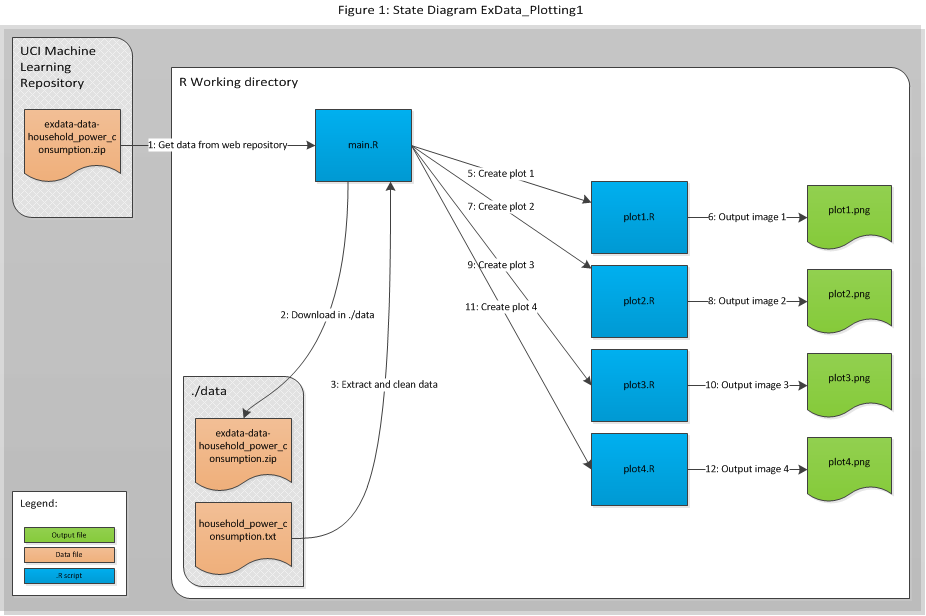
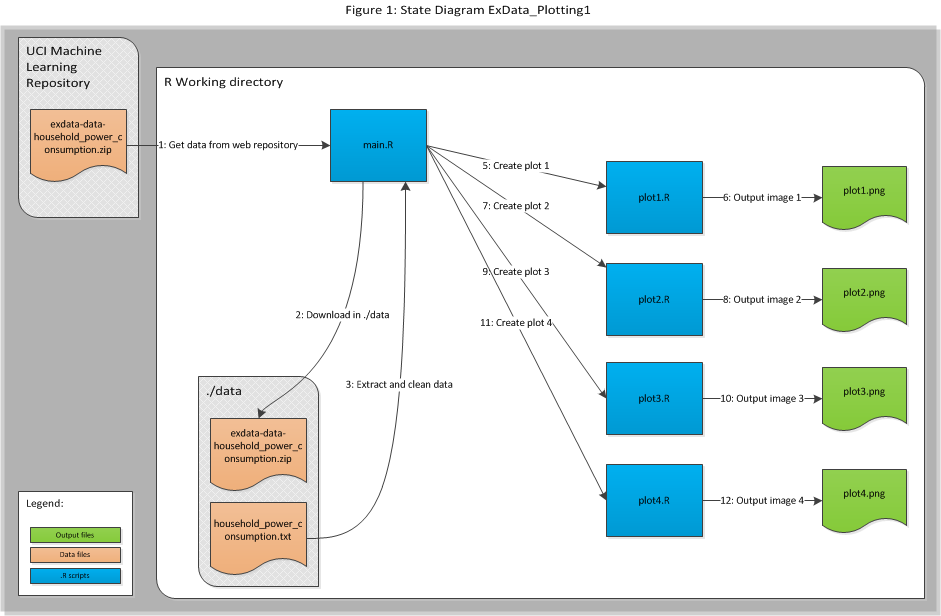
removed working directory change and added some documentation

diff --git a/CodeBook.md b/CodeBook.md
@@ -11,9 +11,10 @@
 ### Contents
    1 - Assumptions  
    2 - Base Criteria  
-   3 - Data Dictionary  
+   3 - Code Documentation  
    4 - Variable Dictionary  
-   5 - Code Documentation      
+   5 - General Statistics
+    
 
 ### Assumptions
 ##### Section outlines the base assumptions made when generating the output plots 
@@ -29,159 +30,55 @@
 >Note: Running <code>main.R</code> will download roughly 146MB of data form the web and create a new directory './data', which will house all the downloaded data in the working directory. Furthermore, the plots (in .png format) will be placed in the working directory upon the completion of the <code>main.R</code> routine. Lastly, the R package "lubridate" will be installed automatically upon running this routine.
 
 
-### State Diagram
+### Code Documentation
+##### Section explains the overall extraction, cleaning and plot creating process 
+
+>Note: The R file <code>main.R</code> and <code>plot*.R</code>, has inline documentation as required. The purpose of this section is to provide high-level guidance. For detailed information, refer to the source code. 
+</br>
+
+The steps taken to produce the 4 plots are illustrated below: 
 
 ![stateDiagram](images/stateDiagram.png) 
 
 
-### Data Dictionary
-##### Section explains the columns in the tidy data set (UCI-HAR-TidyDataSet.csv)
-
-> Note: the two output files have identical data, where the first row are column headers.
-</br>  
-
-Output file format: .csv  and .txt  
-Delimiter: ","  
-Total number of columns: 68  
-Total number of rows: 180  
-
->Note: format followed for Table 1 is outlined here:  
- $X; indicates a column name, where X will match the name of the column in the tidy data set    
- \: YYY; YYY indicates the data format and any supporting explanations  
- ZZZ,ZZZ,ZZZ, ...; ZZZ show the first 6 of 180 observations  
- //X - ; is any further explanation of the column in the line below
-</br>
-
-##### Table 1: Tidy Data Set Data Dictionary
-//activity_label - is associated with the the activity involved. Ranges from 1 to 30  
- $ activity_label             : Factor w/ 6 levels "LAYING","SITTING",..: 1 2 3 4 5 6 1 2 3 4 ...  
-
-//test_subject - A reference number associated with the 30 test subjects. Ranges from 1 to 30  
- $ test_subject               : int  1 1 1 1 1 1 2 2 2 2 ...  
-
-// An explanation of the following 66 columns is available in ./data/UCI HAR Dataset/features_info.txt.   
-// Also note all these 66 columns are averages.  
-// For further explanation and more context, please refer to  ./data/UCI HAR Dataset/README.txt.  
- $ tBodyAcc-mean()-X          : num  0.222 0.261 0.279 0.277 0.289 ...  
- $ tBodyAcc-mean()-Y          : num  -0.04051 -0.00131 -0.01614 -0.01738 -0.00992 ...  
- $ tBodyAcc-mean()-Z          : num  -0.113 -0.105 -0.111 -0.111 -0.108 ...  
- $ tGravityAcc-mean()-X       : num  -0.249 0.832 0.943 0.935 0.932 ...  
- $ tGravityAcc-mean()-Y       : num  0.706 0.204 -0.273 -0.282 -0.267 ...  
- $ tGravityAcc-mean()-Z       : num  0.4458 0.332 0.0135 -0.0681 -0.0621 ...  
- $ tBodyAccJerk-mean()-X      : num  0.0811 0.0775 0.0754 0.074 0.0542 ...  
- $ tBodyAccJerk-mean()-Y      : num  0.003838 -0.000619 0.007976 0.028272 0.02965 ...  
- $ tBodyAccJerk-mean()-Z      : num  0.01083 -0.00337 -0.00369 -0.00417 -0.01097 ...  
- $ tBodyGyro-mean()-X         : num  -0.0166 -0.0454 -0.024 -0.0418 -0.0351 ...  
- $ tBodyGyro-mean()-Y         : num  -0.0645 -0.0919 -0.0594 -0.0695 -0.0909 ...  
- $ tBodyGyro-mean()-Z         : num  0.1487 0.0629 0.0748 0.0849 0.0901 ...  
- $ tBodyGyroJerk-mean()-X     : num  -0.1073 -0.0937 -0.0996 -0.09 -0.074 ...  
- $ tBodyGyroJerk-mean()-Y     : num  -0.0415 -0.0402 -0.0441 -0.0398 -0.044 ...  
- $ tBodyGyroJerk-mean()-Z     : num  -0.0741 -0.0467 -0.049 -0.0461 -0.027 ...  
- $ tBodyAccMag-mean()         : num  -0.8419 -0.9485 -0.9843 -0.137 0.0272 ...  
- $ tGravityAccMag-mean()      : num  -0.8419 -0.9485 -0.9843 -0.137 0.0272 ...  
- $ tBodyAccJerkMag-mean()     : num  -0.9544 -0.9874 -0.9924 -0.1414 -0.0894 ...  
- $ tBodyGyroMag-mean()        : num  -0.8748 -0.9309 -0.9765 -0.161 -0.0757 ...  
- $ tBodyGyroJerkMag-mean()    : num  -0.963 -0.992 -0.995 -0.299 -0.295 ...  
- $ fBodyAcc-mean()-X          : num  -0.9391 -0.9796 -0.9952 -0.2028 0.0382 ...  
- $ fBodyAcc-mean()-Y          : num  -0.86707 -0.94408 -0.97707 0.08971 0.00155 ...  
- $ fBodyAcc-mean()-Z          : num  -0.883 -0.959 -0.985 -0.332 -0.226 ...  
- $ fBodyAccJerk-mean()-X      : num  -0.9571 -0.9866 -0.9946 -0.1705 -0.0277 ...  
- $ fBodyAccJerk-mean()-Y      : num  -0.9225 -0.9816 -0.9854 -0.0352 -0.1287 ...  
- $ fBodyAccJerk-mean()-Z      : num  -0.948 -0.986 -0.991 -0.469 -0.288 ...  
- $ fBodyGyro-mean()-X         : num  -0.85 -0.976 -0.986 -0.339 -0.352 ...  
- $ fBodyGyro-mean()-Y         : num  -0.9522 -0.9758 -0.989 -0.1031 -0.0557 ...  
- $ fBodyGyro-mean()-Z         : num  -0.9093 -0.9513 -0.9808 -0.2559 -0.0319 ...  
- $ fBodyAccMag-mean()         : num  -0.8618 -0.9478 -0.9854 -0.1286 0.0966 ...  
- $ fBodyBodyAccJerkMag-mean() : num  -0.9333 -0.9853 -0.9925 -0.0571 0.0262 ...  
- $ fBodyBodyGyroMag-mean()    : num  -0.862 -0.958 -0.985 -0.199 -0.186 ...  
- $ fBodyBodyGyroJerkMag-mean(): num  -0.942 -0.99 -0.995 -0.319 -0.282 ...  
- $ tBodyAcc-std()-X           : num  -0.928 -0.977 -0.996 -0.284 0.03 ...  
- $ tBodyAcc-std()-Y           : num  -0.8368 -0.9226 -0.9732 0.1145 -0.0319 ...  
- $ tBodyAcc-std()-Z           : num  -0.826 -0.94 -0.98 -0.26 -0.23 ...  
- $ tGravityAcc-std()-X        : num  -0.897 -0.968 -0.994 -0.977 -0.951 ...  
- $ tGravityAcc-std()-Y        : num  -0.908 -0.936 -0.981 -0.971 -0.937 ...  
- $ tGravityAcc-std()-Z        : num  -0.852 -0.949 -0.976 -0.948 -0.896 ...  
- $ tBodyAccJerk-std()-X       : num  -0.9585 -0.9864 -0.9946 -0.1136 -0.0123 ...  
- $ tBodyAccJerk-std()-Y       : num  -0.924 -0.981 -0.986 0.067 -0.102 ...  
- $ tBodyAccJerk-std()-Z       : num  -0.955 -0.988 -0.992 -0.503 -0.346 ...  
- $ tBodyGyro-std()-X          : num  -0.874 -0.977 -0.987 -0.474 -0.458 ...  
- $ tBodyGyro-std()-Y          : num  -0.9511 -0.9665 -0.9877 -0.0546 -0.1263 ...  
- $ tBodyGyro-std()-Z          : num  -0.908 -0.941 -0.981 -0.344 -0.125 ...  
- $ tBodyGyroJerk-std()-X      : num  -0.919 -0.992 -0.993 -0.207 -0.487 ...  
- $ tBodyGyroJerk-std()-Y      : num  -0.968 -0.99 -0.995 -0.304 -0.239 ...  
- $ tBodyGyroJerk-std()-Z      : num  -0.958 -0.988 -0.992 -0.404 -0.269 ...  
- $ tBodyAccMag-std()          : num  -0.7951 -0.9271 -0.9819 -0.2197 0.0199 ...  
- $ tGravityAccMag-std()       : num  -0.7951 -0.9271 -0.9819 -0.2197 0.0199 ...  
- $ tBodyAccJerkMag-std()      : num  -0.9282 -0.9841 -0.9931 -0.0745 -0.0258 ...  
- $ tBodyGyroMag-std()         : num  -0.819 -0.935 -0.979 -0.187 -0.226 ...  
- $ tBodyGyroJerkMag-std()     : num  -0.936 -0.988 -0.995 -0.325 -0.307 ...  
- $ fBodyAcc-std()-X           : num  -0.9244 -0.9764 -0.996 -0.3191 0.0243 ...  
- $ fBodyAcc-std()-Y           : num  -0.834 -0.917 -0.972 0.056 -0.113 ...  
- $ fBodyAcc-std()-Z           : num  -0.813 -0.934 -0.978 -0.28 -0.298 ...  
- $ fBodyAccJerk-std()-X       : num  -0.9642 -0.9875 -0.9951 -0.1336 -0.0863 ...  
- $ fBodyAccJerk-std()-Y       : num  -0.932 -0.983 -0.987 0.107 -0.135 ...  
- $ fBodyAccJerk-std()-Z       : num  -0.961 -0.988 -0.992 -0.535 -0.402 ...  
- $ fBodyGyro-std()-X          : num  -0.882 -0.978 -0.987 -0.517 -0.495 ...  
- $ fBodyGyro-std()-Y          : num  -0.9512 -0.9623 -0.9871 -0.0335 -0.1814 ...  
- $ fBodyGyro-std()-Z          : num  -0.917 -0.944 -0.982 -0.437 -0.238 ...  
- $ fBodyAccMag-std()          : num  -0.798 -0.928 -0.982 -0.398 -0.187 ...  
- $ fBodyBodyAccJerkMag-std()  : num  -0.922 -0.982 -0.993 -0.103 -0.104 ...  
- $ fBodyBodyGyroMag-std()     : num  -0.824 -0.932 -0.978 -0.321 -0.398 ...  
- $ fBodyBodyGyroJerkMag-std() : num  -0.933 -0.987 -0.995 -0.382 -0.392 ...  
+  **Step 1**: Get data from web: Here, <code>main.R</code> connects to the UCI website and extracts the data.  
+  **Step 2**: Download in ./data: <code>main.R</code> creates <code>./data</code> folder if it does not exist and dumps the .zip here.   
+  **Step 3**: Extract  data: <code>main.R</code> extracts the data from the .zip file.  
+  **Step 4**: Clean and subset data: Here the data set is cleaned up (dates converted and extra columns removed) and subset t according to the conditions specified in the *Loading the Data* section in the README.md.   
+  **Steps 5,7,9,11**: Creating the respective plots. Here <code>main.R</code> sources and calls upon the respective .R file to create the necessary plot.  
+  **Steps 6,8,10,12**: .png files are created and dumped into the working directory.  
 
 
 ### Variable Dictionary
 
->Note: format followed for Table 2 is outlined here:  
+>Note: format followed for Table 1 is outlined here:  
  "X"; indicates a variable in the R workspace   
  \- YYY; YYY indicates the explanation of the variable 
 </br>
 
-##### Table 2: R Variable Dictionary
+##### Table 1: R Variable Dictionary
 
-###### 2.1 - Data frames
-"activityLabels" - Contains the 6 classes of activity.  
-"features" - Contains a list of all 561 features.         
-"MergedData"  - Data set of testing and training data with the associated activity labels.            
-"MergedDataIndicators" - The MergedData set with only mean() and std() columns.                    
-"subjectTest" - Data set with the testing data and the corresponding subject id added.          
-"subjectTrain" - Data set with the training data and the corresponding subject id added.                           
-"testActivity" - Contains a list of all the test subjects and the activity they performed.  
-"trainActivity" - Contains a list of all the training subjects and the activity they performed.  
-"testData" - Testing data set with activity.                    
-"tidyDataSet" - Final output also available in .csv and .txt in the working directory.                 
-"trainData"- Training data set with activity.          
-"XTest" - Original testing data set               
-"XTrain" - Original training data set               
-"yTest" - Original testing subjects               
-"yTrain" - Original training subject
+###### 1.1 - Data frames
+"origData" - original data downloaded from UCI and untouched    
+"origDataClean" - Cleaned data set    
 
-###### 2.2 - Other variables  
-"dataDir" - location of the extracted data   
+###### 1.2 - Other variables  
+"dataDir" - location of the extracted data from UCI 
 "file" - location of unzipped data  
-"meanRegEx" - Regular expression to extract only mean() columns  
-"stdRegEx" - Regular expression to extract only std() columns  
 "OrigDataURL" - URL of the UCI data location
-"testDataDir" - Location of the testing data in ./data/UCI HAR Dataset  
-"trainDataDir" - Location of the training data in ./data/UCI HAR Dataset   
 
-### Code Documentation
-##### Section explains the overall extraction, cleaning and tidy data set creation process 
 
->Note: The R file <code>run\_analysis.R</code>, has inline documentation as required. The purpose of this section is to provide high-level guidance. For detailed information, refer to the source code. 
-</br>
+### General Statistics
 
-  1. Extract data from the UCI HAR and download it in ./data.
-  2. Load the data in the R work space in a data.frame for each data set without any modifications. 
-  3. Add column labels to both the testing and the training data set.  
-  4. Add test subjects to the testing and training data sets through a column combination.    
-  5. Join activity data with the test subjects form the testing and training data set.  
-  6. Add activity labels  to the respective testing and training data set with the use of joins.  
-  7. Merges the training and the test sets to create one data set. This will be done through a row merge as both these data sets have identical dimensions.  
-  8. Extracts only the columns which provide information on the mean and standard deviation for each measurement.  
-  9. Creates a independent tidy data set with the average of each column from the previous step grouped by each activity and by each subject.   
-  10. Output a tidy data file in .csv and a copy in .txt format.  
+##### CPU Time Measures: 
+ - user: 33.24s  
+ - system: 3.42s  
+ - elapsed 46.80s  
 
+##### File/Folder Sizes: 
+ - **./data** folder: 146MB
+ - *.png: 19KB  
+ - Overall folder (after <code>main.R</code> execution): 147MB  
 
 
 
